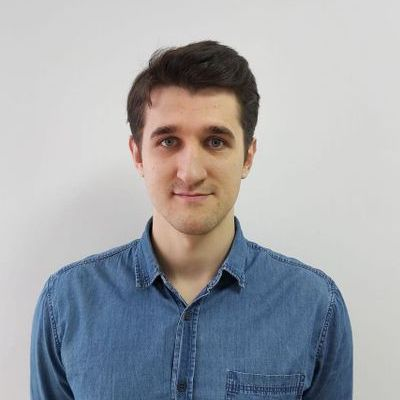
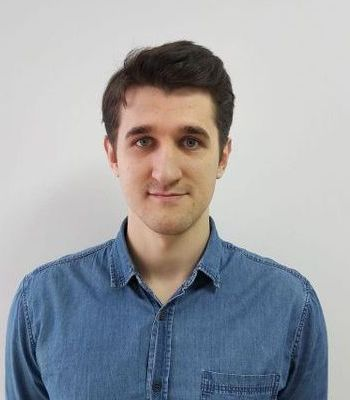
center align judges

diff --git a/index.html b/index.html
@@ -14,7 +14,7 @@
         return DayCount;
         }
     </script>
-    <meta name="description" content="Epsilon Hacks is a virtual hackathon open to highschoolers from around the world.
+    <meta name="description" content="Epsilon Hacks is a virtual hackathon open to high-schoolers from around the world.
      It will start on June 26 and end on June 27." />
     <link rel="shortcut icon" href="assets/favicon.svg" type="image/svg+xml" />
     <meta name="keywords"
@@ -477,6 +477,7 @@
                         </div>
             </div>
             <div class="row">
+                <div class="col-md-2 col-sm-2"></div>
                 <div class="col-md-4 col-sm-4">
                     <div class="team-member">
                         <div class="team-img center">
@@ -488,6 +489,20 @@
                                 <p>Data Engineer for Copperstate Farms</p> <br />
                                 <p>business@ryanpapetti.com
                                 </p>
+                            </div>
+                        </div>
+                    </div>
+                </div>
+                <div class="col-md-4 col-sm-4">
+                    <div class="team-member">
+                        <div class="team-img center">
+                            <img src="assets/images/judges/sergey.jpeg" alt="ryan" class="img-responsive">
+                        </div>
+                        <div class="team-hover">
+                            <div class="desk">
+                                <h4>Sergey Golitsyn</h4>
+                                <p>Senior Software Engineer in Zillion Whales</p> <br />
+                                <p>deft1991@gmail.com</p>
                             </div>
                         </div>
                     </div>

diff --git a/style.css b/style.css
@@ -1201,8 +1201,10 @@ i {
 }
 /*end-variables colors*/
 
-/* experimental judges */
-.row {}
+/* judges */
+.row {
+  align-items: center;
+}
 
 .p-top-30 {
   padding-top: 30px;
@@ -1224,9 +1226,11 @@ i {
 .team-member .team-img {
   position: relative;
   height: auto;
-  width: auto;
+  width: 350px;
   max-width: 400px;
   max-height: 400px;
+  align-items: center;
+  align-content: center;
 }
 
 .team-member {
